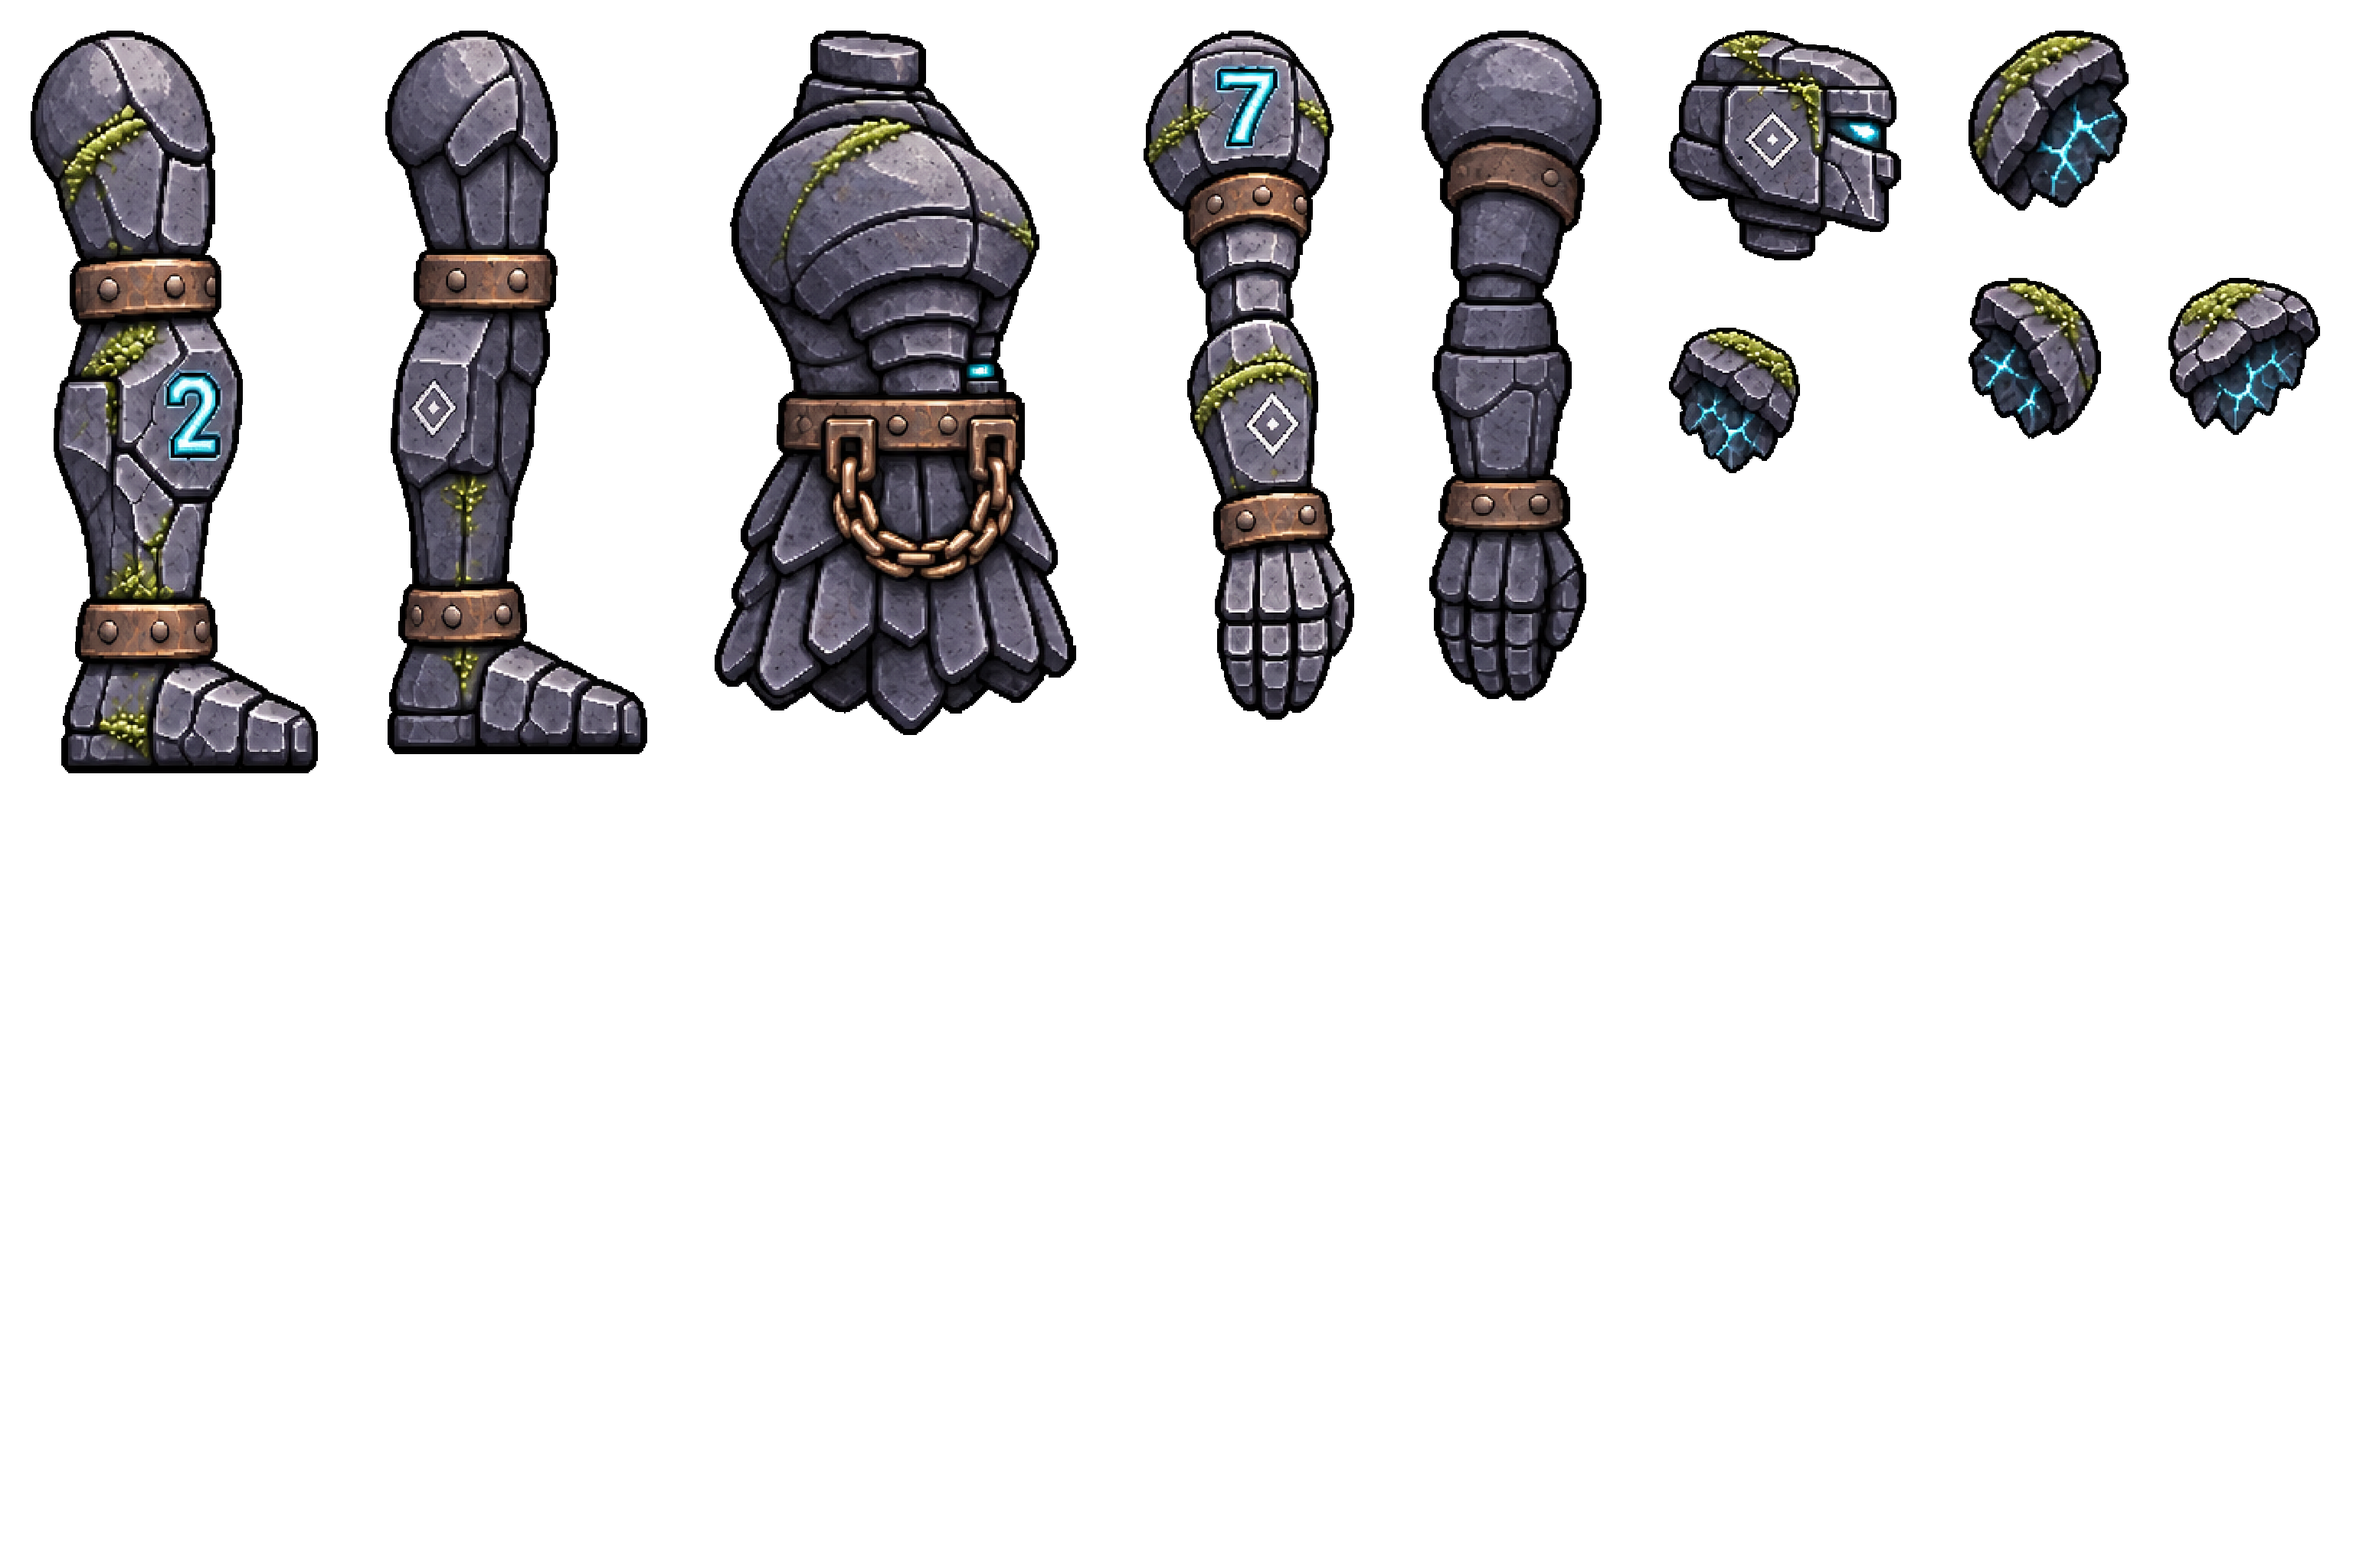
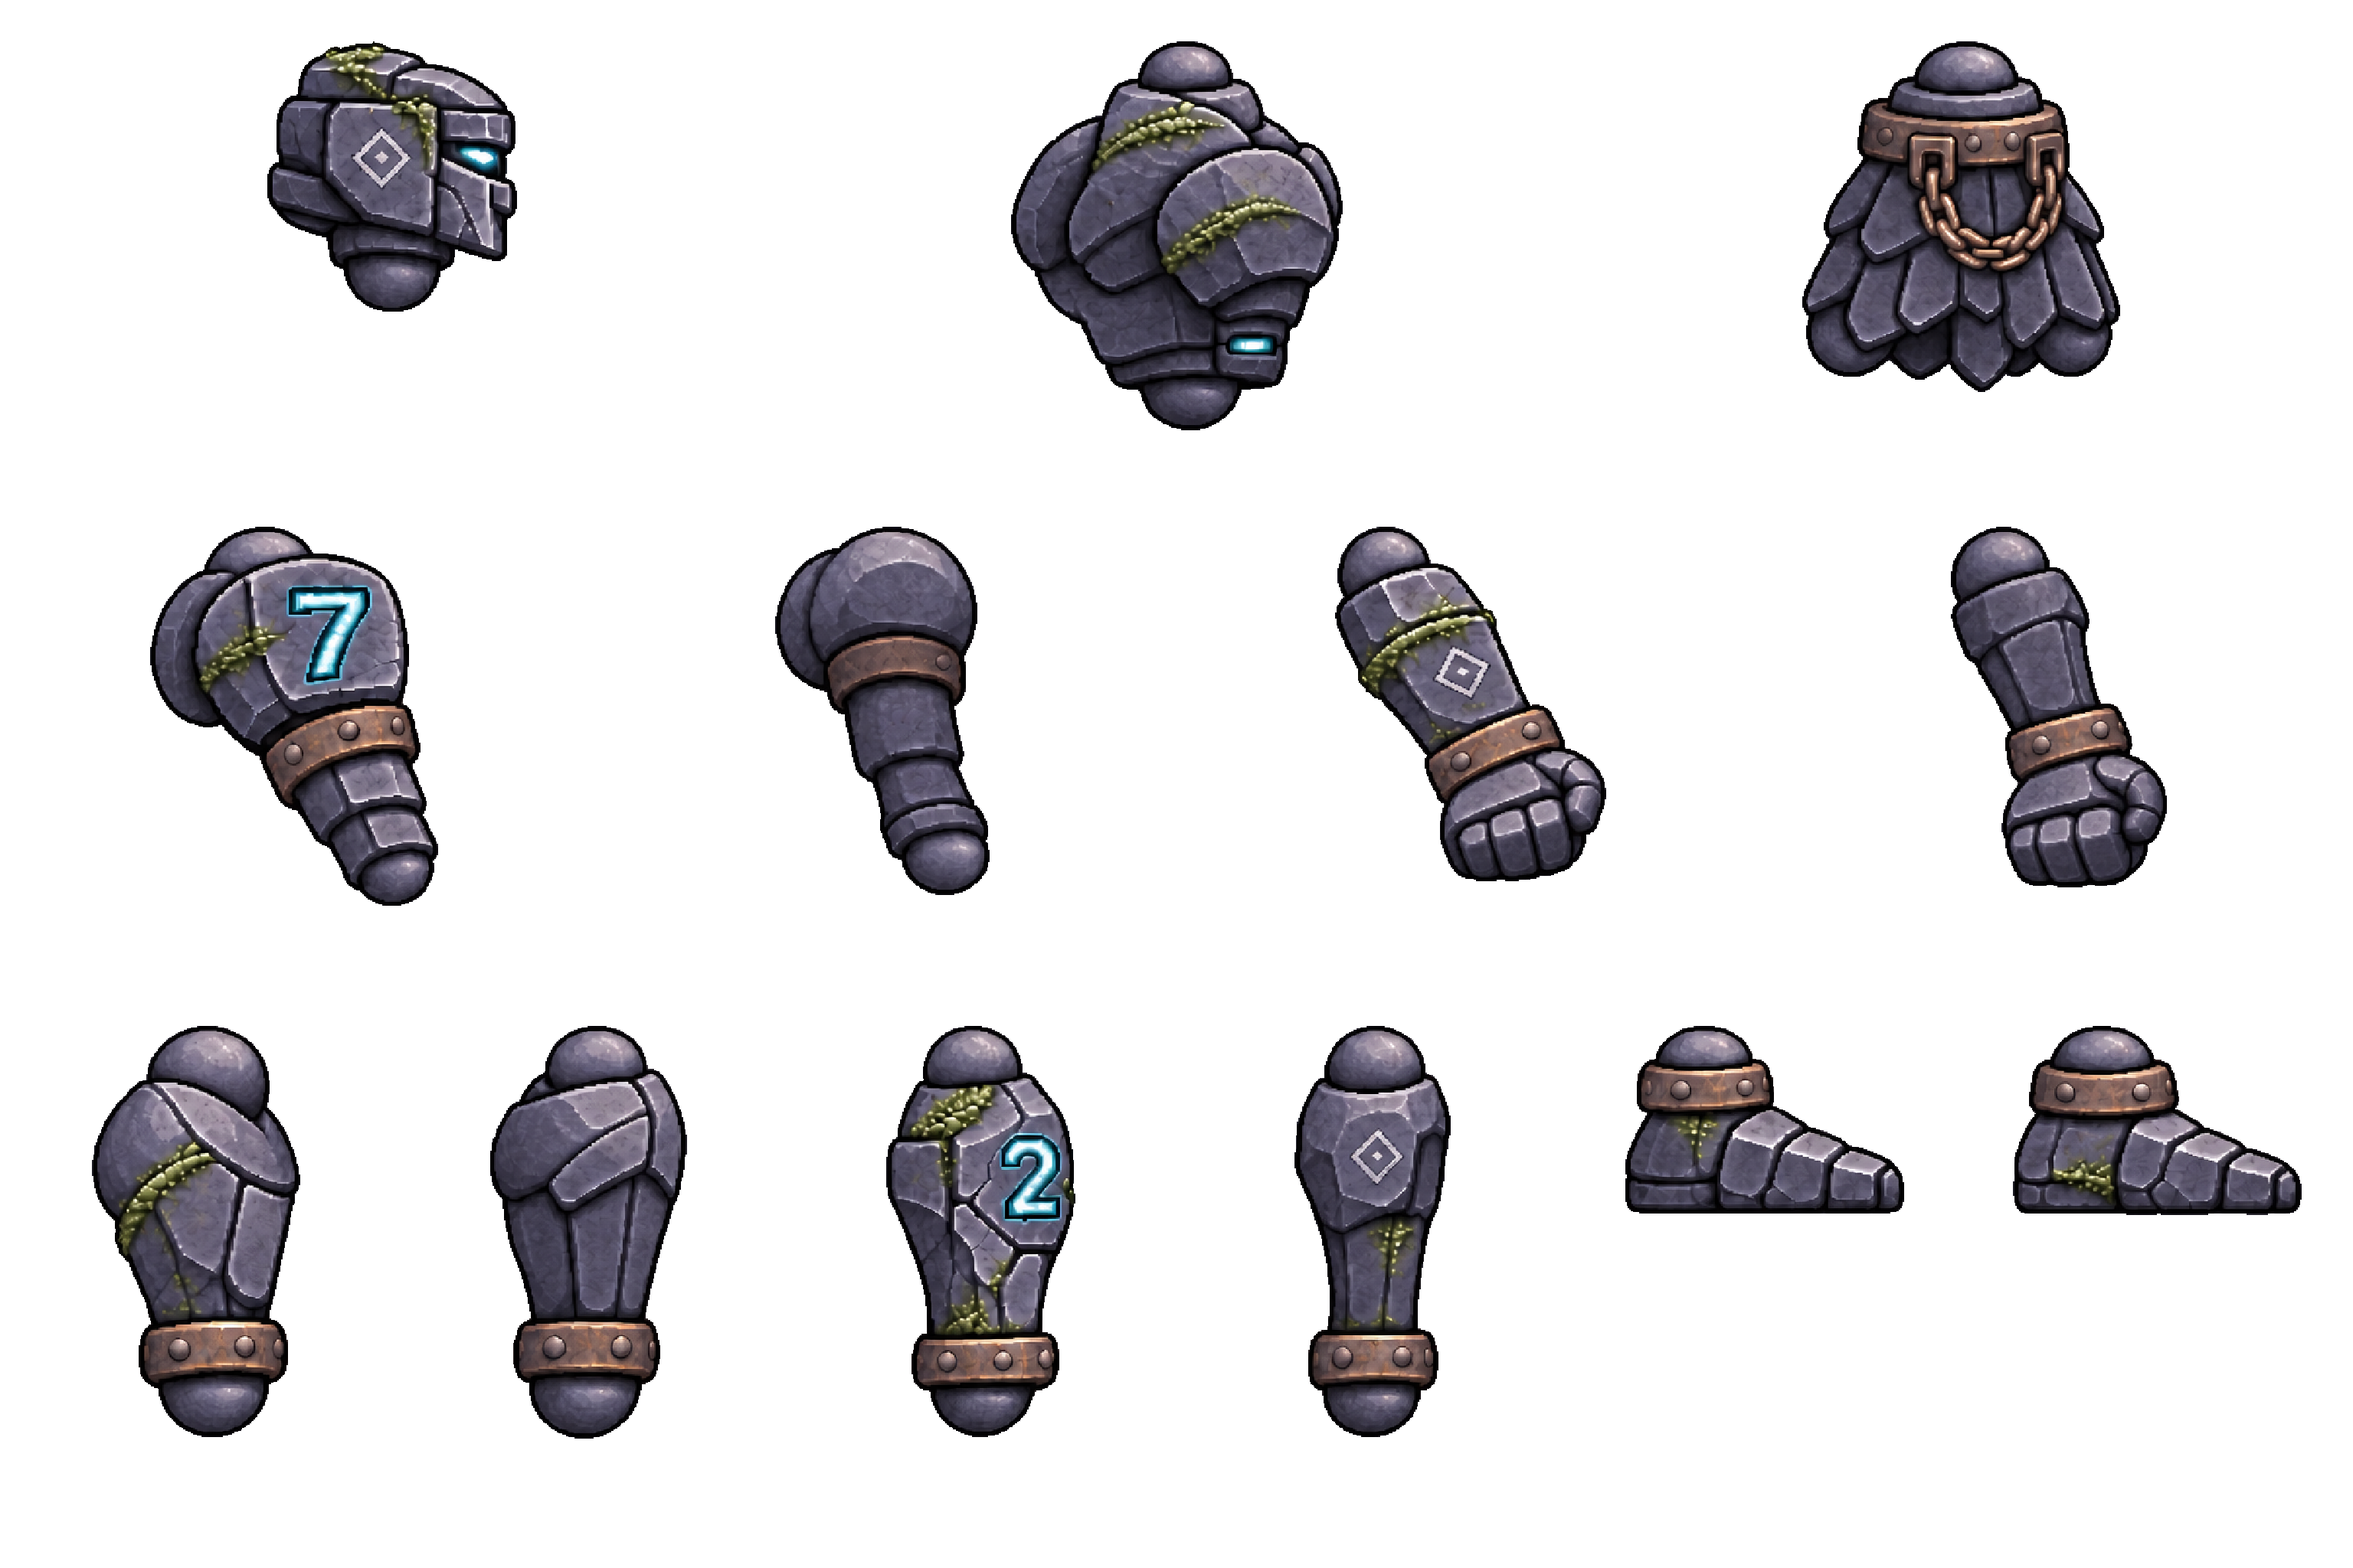
codex: задача 017 выполнена

diff --git a/codex/tasks/017-guardian-parts-seams.md b/codex/tasks/017-guardian-parts-seams.md
@@ -1,7 +1,7 @@
 ---
 id: 017
 title: Каменный страж — детали по швам кладки, с запасом под суставами
-status: pending
+status: done
 created_by: claude
 ---
 
@@ -38,4 +38,24 @@ forearm with fist ×2; thigh ×2; shin ×2; foot ×2.
 - В «Результат» — список деталей и где на листе каждая.
 
 ## Результат
-(заполняет Codex)
+
+- `assets/bosses/stone-guardian/guardian_side_parts_v2.png` — PNG 3072×2048.
+- `assets/bosses/stone-guardian/guardian_side_parts_v2_map.png` — PNG 3072×2048.
+
+Оба листа имеют одинаковый силуэт до пикселя. На цветовой карте 13 одноцветных деталей, минимальное расстояние между их прямоугольниками 126 px. Правосторонние руны 7 и 2 расположены на ближнем плече и голени соответственно. Границы для нарезки заданы от верхнего левого угла. При сборке наплечник закрывает верхний край торса. Прежний `tools/slice_chars.py` для этого пути использует таблицу целых конечностей из 009; для нового листа используется карта 017. Проверка выполнена для статического листа и карты, анимация суставов в движке не проверялась.
+
+| Деталь | x | y | w | h | RGB |
+|---|---:|---:|---:|---:|---|
+| голова | 349 | 54 | 326 | 353 | `#FF4030` |
+| грудь | 1320 | 54 | 433 | 508 | `#25BF54` |
+| таз | 2353 | 54 | 415 | 458 | `#396FFF` |
+| ближнее плечо | 196 | 688 | 376 | 495 | `#FDBB24` |
+| дальнее плечо | 1012 | 688 | 280 | 481 | `#CF42EF` |
+| ближнее предплечье с кистью | 1743 | 688 | 354 | 463 | `#27C5CA` |
+| дальнее предплечье с кистью | 2547 | 688 | 282 | 471 | `#FF80AA` |
+| ближнее бедро | 120 | 1340 | 272 | 537 | `#9182ED` |
+| дальнее бедро | 640 | 1340 | 257 | 539 | `#B5D143` |
+| ближняя голень | 1157 | 1340 | 247 | 537 | `#A96A36` |
+| дальняя голень | 1690 | 1340 | 204 | 537 | `#FF7633` |
+| ближняя стопа | 2122 | 1340 | 364 | 245 | `#427884` |
+| дальняя стопа | 2628 | 1340 | 377 | 247 | `#EFF1ED` |
